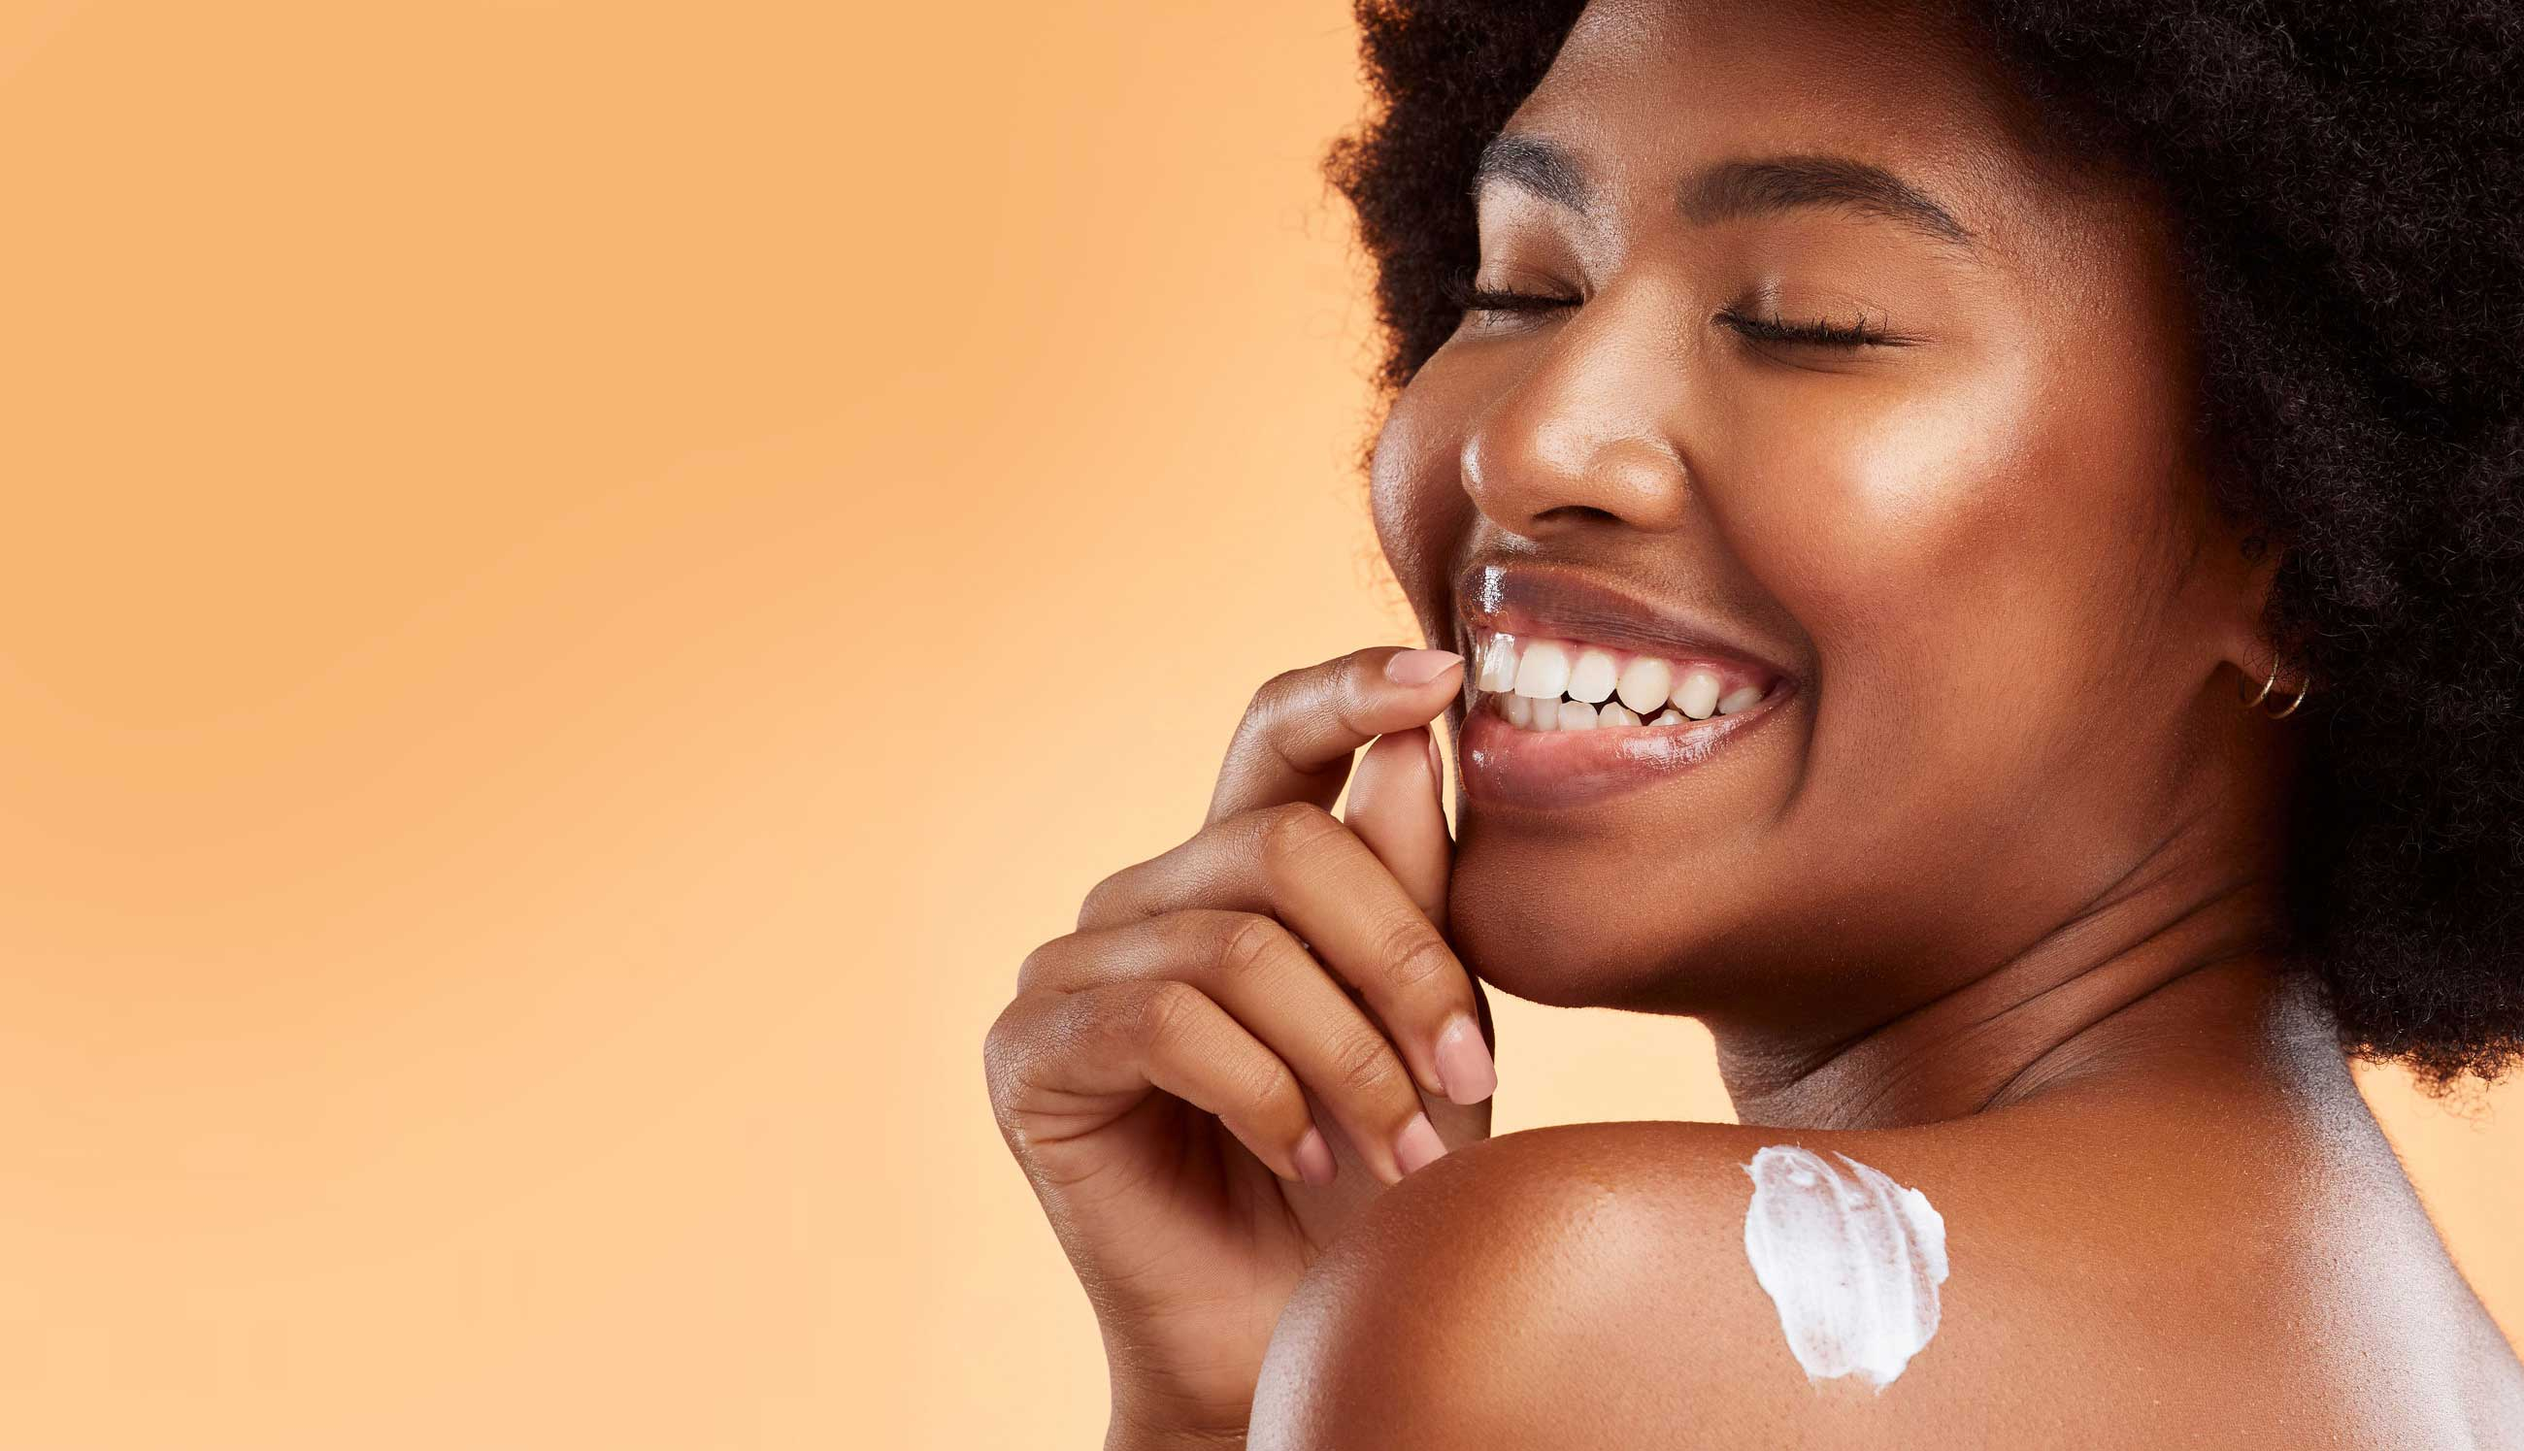
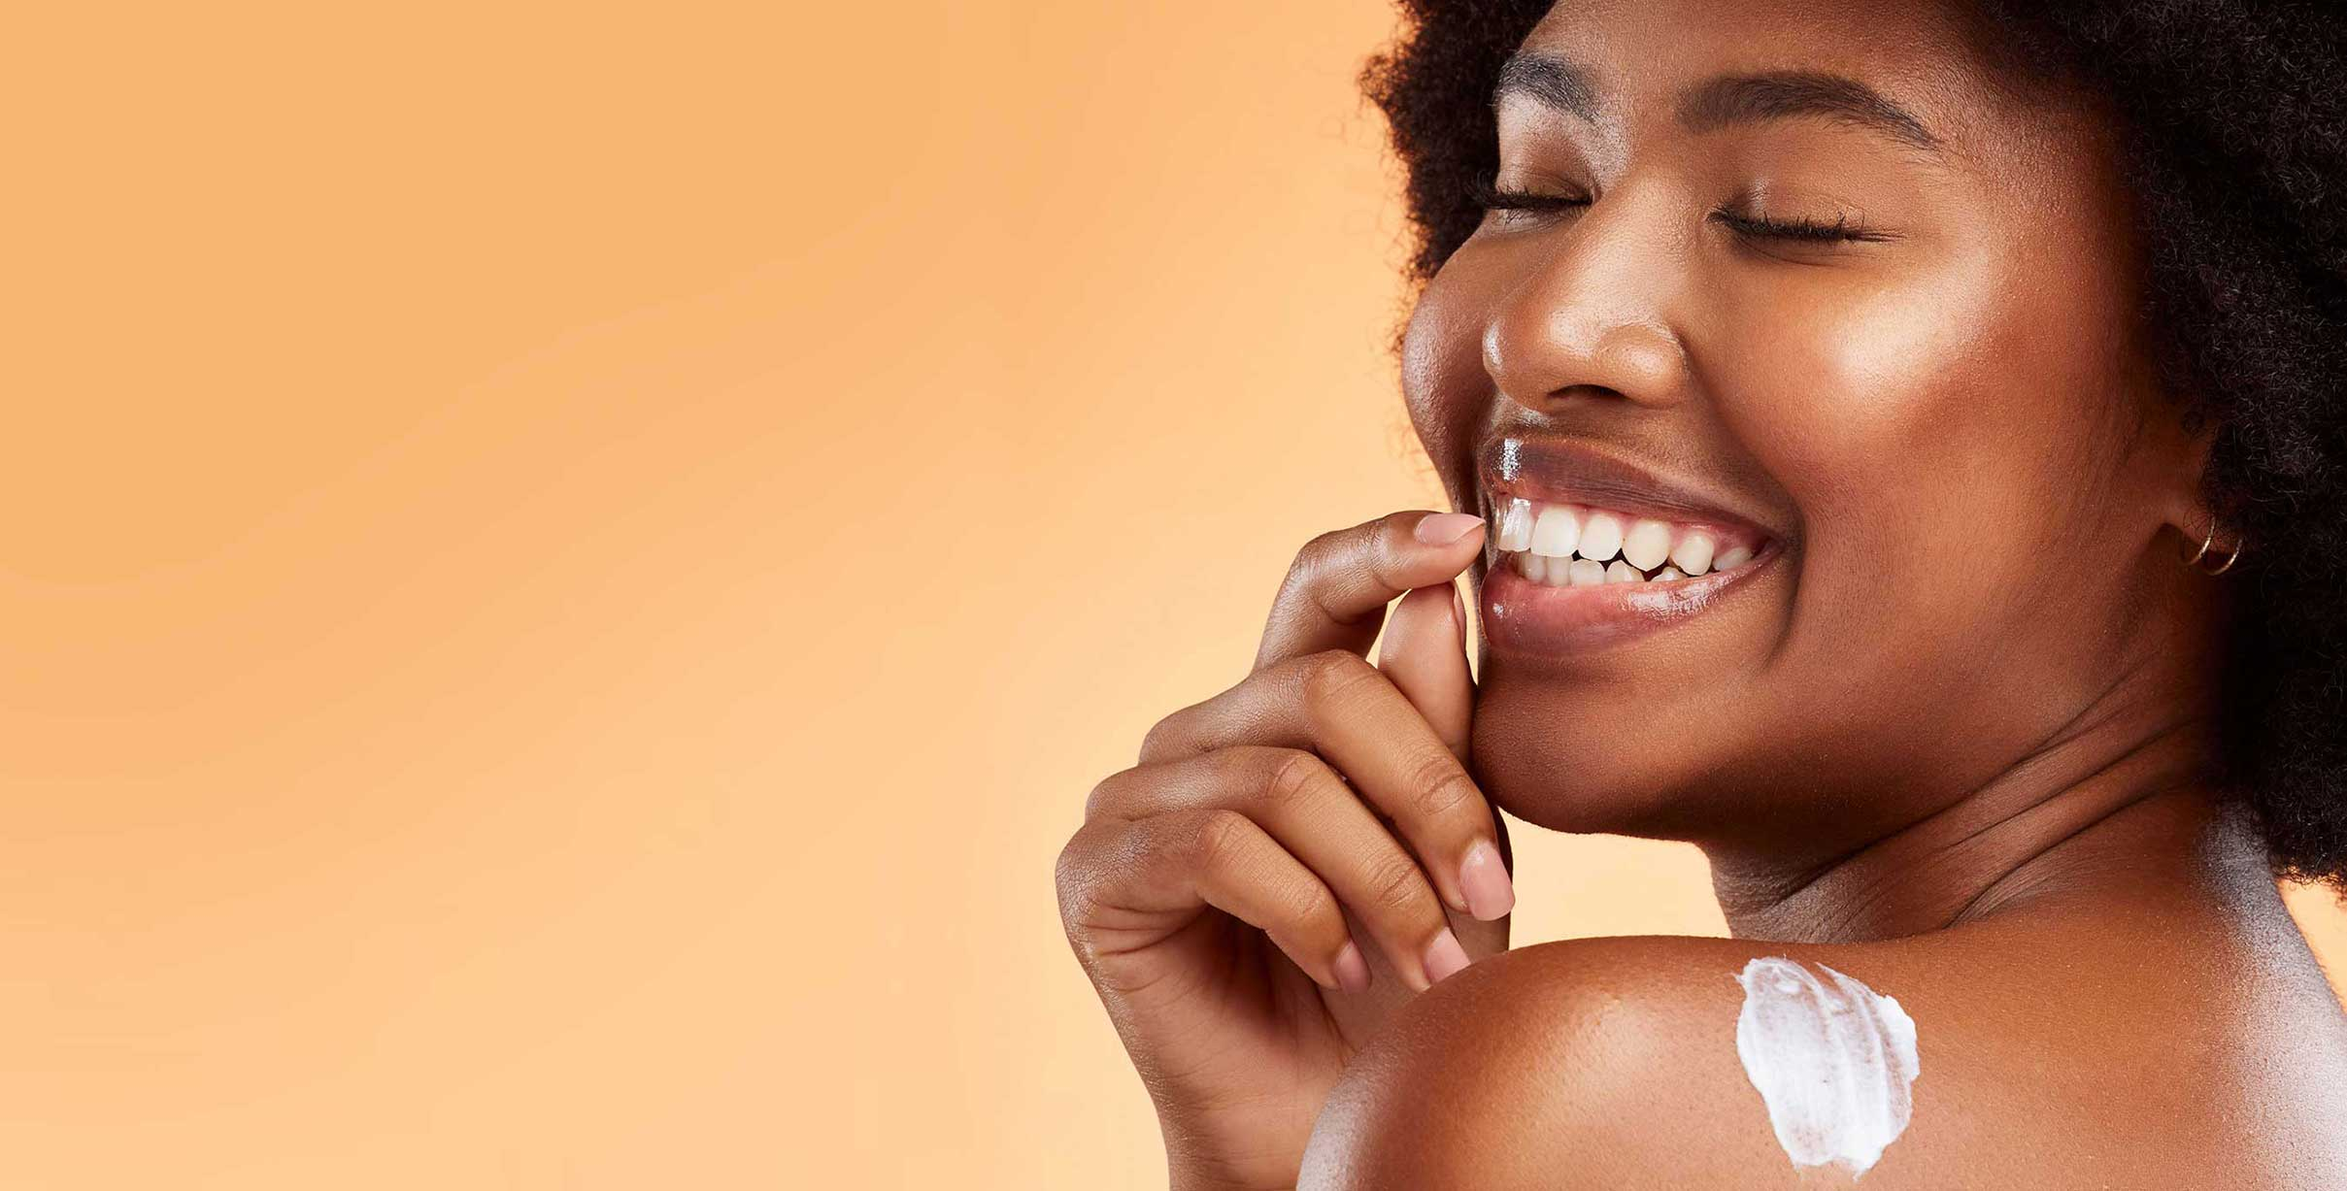
Added introduction paragraph     and changed colour on buttons rollover

diff --git a/templates/includes/main-nav.html b/templates/includes/main-nav.html
@@ -1,12 +1,12 @@
 <div class="collapse navbar-collapse" id="main-nav">
     <ul class="navbar-nav w-auto mx-auto">
         <li class="nav-item d-block d-md-none">
-            <a class="logo-font font-weight-bold nav-link text-black mr-5" href="{% url 'home' %}" id="home-link">
+            <a class="logo-font font-weight-bold nav-link text-brown mr-5" href="{% url 'home' %}" id="home-link">
                 Home
             </a>
         </li>
         <li class="nav-item dropdown">
-            <a class="logo-font font-weight-bold nav-link text-black mr-5" href="#" id="all-products-link" data-toggle="dropdown" aria-haspopup="true" aria-expanded="false">
+            <a class="logo-font font-weight-bold nav-link text-brown mr-5" href="#" id="all-products-link" data-toggle="dropdown" aria-haspopup="true" aria-expanded="false">
                 All Products
             </a>
             <div class="dropdown-menu border-0" aria-labelledby="all-products-link">
@@ -18,7 +18,7 @@
         </li>
 
         <li class="nav-item dropdown">
-            <a class="logo-font font-weight-bold nav-link text-black mr-5" href="#" id="clothing-link" data-toggle="dropdown" aria-haspopup="true" aria-expanded="false">
+            <a class="logo-font font-weight-bold nav-link text-brown mr-5" href="#" id="clothing-link" data-toggle="dropdown" aria-haspopup="true" aria-expanded="false">
                 Face
             </a>
             <div class="dropdown-menu border-0" aria-labelledby="face-link">
@@ -30,7 +30,7 @@
         </li>
 
         <li class="nav-item dropdown">
-            <a class="logo-font font-weight-bold nav-link text-black mr-5" href="#" id="homeware-link" data-toggle="dropdown" aria-haspopup="true" aria-expanded="false">
+            <a class="logo-font font-weight-bold nav-link text-brown mr-5" href="#" id="homeware-link" data-toggle="dropdown" aria-haspopup="true" aria-expanded="false">
                 Body
             </a>
             <div class="dropdown-menu border-0" aria-labelledby="body-link">
@@ -41,7 +41,7 @@
         </li>
 
         <li class="nav-item dropdown">
-            <a class="logo-font font-weight-bold nav-link text-black mr-5" href="#" id="specials-link" data-toggle="dropdown" aria-haspopup="true" aria-expanded="false">
+            <a class="logo-font font-weight-bold nav-link text-brown mr-5" href="#" id="specials-link" data-toggle="dropdown" aria-haspopup="true" aria-expanded="false">
                 Organic  
             </a>
             <div class="dropdown-menu border-0" aria-labelledby="organics-link">
@@ -52,7 +52,7 @@
         </li>
 
         <li class="nav-item">
-            <a class="logo-font font-weight-bold nav-link text-black mr-5" href="{% url 'skincare_articles' %}" id="specials-link" aria-haspopup="true" aria-expanded="false">
+            <a class="logo-font font-weight-bold nav-link text-brown mr-5" href="{% url 'skincare_articles' %}" id="specials-link" aria-haspopup="true" aria-expanded="false">
                   How To
             </a>
         </li>

diff --git a/templates/base.html b/templates/base.html
@@ -48,9 +48,10 @@
         <div id="topnav" class="row bg-white pt-lg-2 d-none d-lg-flex">
             <div class="col-12 col-lg-4 my-auto py-1 py-lg-0 text-center text-lg-left">
                 <a href="{% url 'home' %}" class="nav-link main-logo-link">
-                    <h2 class="main-logo logo-font text-black my-0"><strong>Pure</strong> Glow</h2>
+                    <h2 class="main-logo text-brown my-0"><strong>pure</strong> glow</h2>
                 </a>
             </div>
+            <!-- Search bar -->
             <div class="col-12 col-lg-4 my-auto py-1 py-lg-0">
                 <form method="GET" action="{% url 'products' %}">
                     <div class="input-group w-100">
@@ -69,7 +70,7 @@
                 <ul class="list-inline list-unstyled text-center text-lg-right my-0">
                     <!-- Dropdown menu for my account -->
                     <li class="list-inline-item dropdown">
-                        <a class="text-black nav-link" href="#" id="user-options" data-toggle="dropdown" aria-haspopup="true" aria-expanded="false">
+                        <a class="text-brown nav-link" href="#" id="user-options" data-toggle="dropdown" aria-haspopup="true" aria-expanded="false">
                             <div class="text-center">
                                 <div><i class="fas fa-user fa-lg"></i></div>
                                 <p class="my-0">My Account</p>
@@ -91,7 +92,7 @@
                     <!-- Wishlist icon and link -->
                     {% if request.user.is_authenticated %}
                     <li class="list-inline-item dropdown">
-                        <a class="{% if wishlist %}alt-text-info font-weight-bold{% else %}text-black{% endif %} nav-link px-1" href="{% url 'wishlist' %}">
+                        <a class="{% if wishlist %}alt-text-info font-weight-bold{% else %}text-brown{% endif %} nav-link px-1" href="{% url 'wishlist' %}">
                              <div class="text-center">
                                 {% if wishlist.count %}
                                 <div><i class="fas fa-heart fa-lg"></i></div>
@@ -106,7 +107,7 @@
                     {% endif %}
                     <!-- Shopping bag icon and link -->
                     <li class="list-inline-item">
-                        <a class="{% if grand_total %}text-info font-weight-bold{% else %}text-black{% endif %} nav-link" href="{% url 'view_bag' %}">
+                        <a class="{% if grand_total %}text-info font-weight-bold{% else %}text-brown{% endif %} nav-link" href="{% url 'view_bag' %}">
                             <div class="text-center">
                                 <div><i class="fas fa-shopping-bag fa-lg"></i></div>
                                 <p class="my-0">

diff --git a/templates/includes/mobile-top-header.html b/templates/includes/mobile-top-header.html
@@ -1,10 +1,10 @@
 <li class="list-inline-item d-lg-none">
     <a href="{% url 'home' %}" class="nav-link main-logo-link">
-        <h2 class="main-logo logo-font text-black my-0"><strong>Pure</strong> Glow</h2>
+        <h2 class="main-logo text-brown my-0">pure glow</h2>
     </a>
 </li>
 <li class="list-inline-item">
-    <a class="text-black nav-link d-block d-lg-none" href="#" id="mobile-search" data-toggle="dropdown" aria-haspopup="true" aria-expanded="false">
+    <a class="text-brown nav-link d-block d-lg-none" href="#" id="mobile-search" data-toggle="dropdown" aria-haspopup="true" aria-expanded="false">
         <div class="text-center">
             <div><i class="fas fa-search fa-lg"></i></div>
             <p class="my-0">Search</p>
@@ -26,7 +26,7 @@
     </div>
 </li>
 <li class="list-inline-item dropdown">
-    <a class="text-black nav-link d-block d-lg-none" href="#" id="user-options" data-toggle="dropdown" aria-haspopup="true" aria-expanded="false">
+    <a class="text-brown nav-link d-block d-lg-none" href="#" id="user-options" data-toggle="dropdown" aria-haspopup="true" aria-expanded="false">
         <div class="text-center">
             <div><i class="fas fa-user fa-lg"></i></div>
             <p class="my-0">My Account</p>
@@ -47,7 +47,7 @@
     </div>
 </li>
 <li class="list-inline-item">
-    <a class="{% if grand_total %}text-primary font-weight-bold{% else %}text-black{% endif %} nav-link d-block d-lg-none" href="{% url 'view_bag' %}">
+    <a class="{% if grand_total %}text-primary font-weight-bold{% else %}text-brown{% endif %} nav-link d-block d-lg-none" href="{% url 'view_bag' %}">
         <div class="text-center">
             <div><i class="fas fa-shopping-bag fa-lg"></i></div>
             <p class="my-0">

diff --git a/static/css/base.css b/static/css/base.css
@@ -13,7 +13,7 @@ body {
     background: url('/media/homepage_image.jpg') no-repeat center center fixed;
     background-size: cover;
     height: calc(100vh - 164px);
-    color: #555;
+    color: #aa4416;
     font-family: 'Quicksand', sans-serif;
 }
 
@@ -28,7 +28,9 @@ body {
 
 .main-logo {
     letter-spacing: 3px;
-    font-size: 2.5rem;
+    font-size: 3rem;
+    font-weight: 300;
+    margin-left: 20px;
 }
 
 .logo-font {
@@ -80,11 +82,11 @@ h2 {
 .btn-black:hover,
 .btn-black:active,
 .btn-black:focus {
-    background: #222;
+    background: #4e2000;
     color: white;
 }
 
-.text-black {
+.text-brown {
     color: #aa4416 !important;
 }
 
@@ -356,17 +358,18 @@ footer a:hover {
     }
 }
 
-/* pad the top a bit when navbar is collapsed on mobile */
+/* Media Queries for mobile size devices */
 @media (max-width: 991px) {
     .header-container {
         padding-top: 116px;
     }
 
     body {
-        height: calc(100vh - 116px);
+        height: calc(80vh - 116px);
+        background: url('/media/homepage_image_mobile.jpg') no-repeat center center fixed;
     }
 
-    .display-4.logo-font.text-black {
+    .display-4.logo-font.text-brown {
         font-size: 2rem;
     }
 
@@ -401,7 +404,20 @@ footer a:hover {
     .increment-qty, .decrement-qty {
         padding: .25rem .5rem !important;
     }
-}
+
+    h1 {
+        font-size: 2rem !important;
+    }
+
+    h2 {
+        font-size: 1rem !important;
+    }
+
+    .main-logo {
+        font-size: 2.7rem;
+        margin-left: 12px;
+        margin-right: 30px;
+    }
 
 /* Wishlist styling for smaller screens */
     .wishlist-thead {
@@ -431,4 +447,4 @@ footer a:hover {
         
     }
 
-
+}

diff --git a/home/templates/home/index.html b/home/templates/home/index.html
@@ -13,9 +13,13 @@
     <div class="container h-100">
         <div class="row h-100">
             <div class="col-7 col-md-6 my-auto">
-                <h1 class="display-3 logo-font text-black">
-                    Skincare for all skin types
+                <h1 class="display-3 logo-font text-brown">
+                    Natural skincare for all
                 </h1>
+                <h2 class="text-brown">
+                    Welcome to pure glow skincare. Kind to your skin, and the environment! 
+                    Natural, non-toxic, skincare range that will nourish, heal & rejuvenate your skin.
+                </h2>
                 <div class="my-5">
                     <h4>
                         <a href="{% url 'products' %}" class="shop-now-button btn btn-lg rounded-0 text-uppercase py-3">Shop Now</a>
